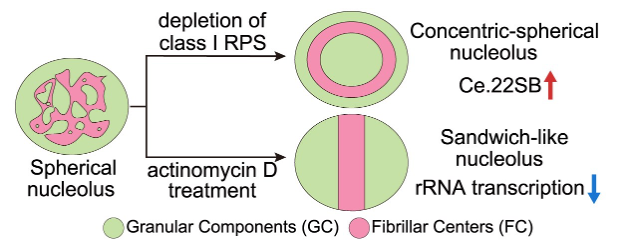
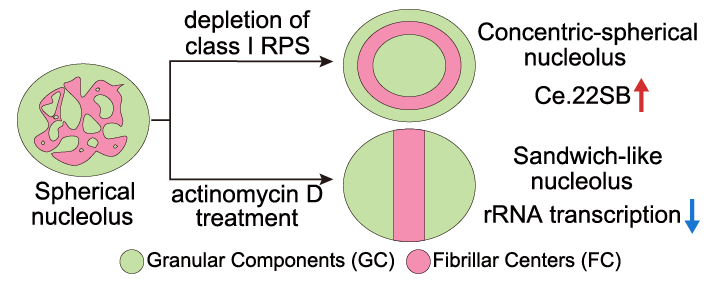
Adjust responsive page margins

diff --git a/css/academic.css b/css/academic.css
@@ -13,7 +13,7 @@
     --bg-alt:     #ffffff;
     --border:     #ddd;
     --section-pad: 5rem;
-    --container:   1100px;
+    --page-width:  88%;
 }
 
 *, *::before, *::after { box-sizing: border-box; margin: 0; padding: 0; }
@@ -54,9 +54,10 @@ a:hover { text-decoration: underline; }
 }
 
 .nav-container {
-    max-width: 1100px;
+    width: var(--page-width);
+    max-width: none;
     margin: 0 auto;
-    padding: 0 2rem;
+    padding: 0;
     height: 64px;
     display: flex;
     align-items: center;
@@ -212,9 +213,10 @@ a:hover { text-decoration: underline; }
 /* ===================== LAYOUT ===================== */
 
 .container {
-    max-width: var(--container);
+    width: var(--page-width);
+    max-width: none;
     margin: 0 auto;
-    padding: 0 2rem;
+    padding: 0;
 }
 
 .section { padding: var(--section-pad) 0; }
@@ -763,7 +765,10 @@ a:hover { text-decoration: underline; }
 /* ===================== MOBILE ===================== */
 
 @media (max-width: 768px) {
-    :root { --section-pad: 3rem; }
+    :root {
+        --section-pad: 3rem;
+        --page-width: 88%;
+    }
 
     /* Mobile nav */
     .nav-toggle { display: flex; }
@@ -837,5 +842,4 @@ a:hover { text-decoration: underline; }
     .hero-name { font-size: 2.2rem; }
     .section-title { font-size: 1.5rem; }
     .gallery-grid { grid-template-columns: repeat(2, 1fr); gap: 0.5rem; }
-    .container { padding: 0 1.25rem; }
 }